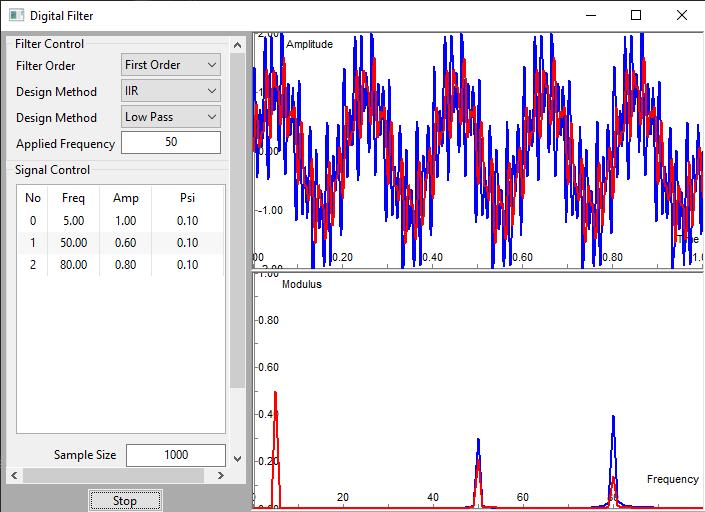
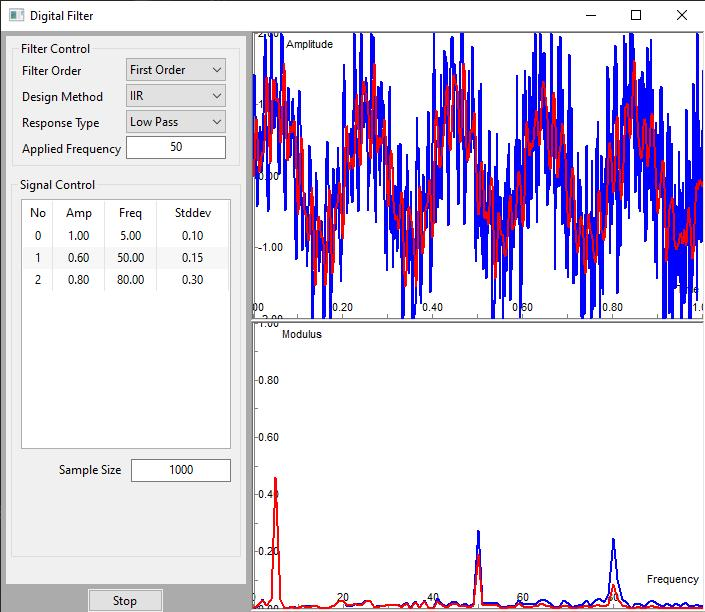
Updating stddev

diff --git a/Mainframe.cpp b/Mainframe.cpp
@@ -125,13 +125,13 @@ void DigitalFilter::MainFrame::m_dataViewListCtrl_SignalInfoOnDataViewListCtrlIt
 			if (m_dataViewListCtrl_SignalInfo->GetTextValue(m_dataViewListCtrl_SignalInfo->ItemToRow(item), event.GetColumn()).ToDouble(&newValue)) {
 				switch (event.GetColumn()) {
 				case 1:
-					signal->infos[m_dataViewListCtrl_SignalInfo->ItemToRow(item)].m_freq = newValue;
-					break;
-				case 2:
 					signal->infos[m_dataViewListCtrl_SignalInfo->ItemToRow(item)].m_amp = newValue;
 					break;
+				case 2:
+					signal->infos[m_dataViewListCtrl_SignalInfo->ItemToRow(item)].m_freq = newValue;
+					break;
 				case 3:
-					signal->infos[m_dataViewListCtrl_SignalInfo->ItemToRow(item)].m_psi = newValue;
+					signal->infos[m_dataViewListCtrl_SignalInfo->ItemToRow(item)].m_stddev = newValue;
 					break;
 				default:
 					break;
@@ -265,9 +265,9 @@ void DigitalFilter::MainFrame::UpdatingFreq() {
 
 void DigitalFilter::MainFrame::UpdatingSignalInfo() {
 	cols[0] = new wxDataViewColumn("No", new wxDataViewTextRenderer(), 0, 30);
-	cols[1] = new wxDataViewColumn("Freq", new wxDataViewTextRenderer(), 1, 52);
-	cols[2] = new wxDataViewColumn("Amp", new wxDataViewTextRenderer(), 2, 52);
-	cols[3] = new wxDataViewColumn("Psi", new wxDataViewTextRenderer(), 3, 52);
+	cols[1] = new wxDataViewColumn("Amp", new wxDataViewTextRenderer(), 1, 52);
+	cols[2] = new wxDataViewColumn("Freq", new wxDataViewTextRenderer(), 2, 52);
+	cols[3] = new wxDataViewColumn("Stddev", new wxDataViewTextRenderer(), 3, 52);
 
 	for(wxDataViewColumn* col:cols)
 		m_dataViewListCtrl_SignalInfo->AppendColumn(col);
@@ -275,9 +275,9 @@ void DigitalFilter::MainFrame::UpdatingSignalInfo() {
 	for (Calc::SignalInfo info : signal->infos) {
 		wxVector<wxVariant> rowData;
 		rowData.push_back(wxString::Format("%d", itemID++));
-		rowData.push_back(wxString::Format("%0.2lf", info.m_freq));
 		rowData.push_back(wxString::Format("%0.2lf", info.m_amp));
-		rowData.push_back(wxString::Format("%0.2lf", info.m_psi)); 
+		rowData.push_back(wxString::Format("%0.2lf", info.m_freq));
+		rowData.push_back(wxString::Format("%0.2lf", info.m_stddev));
 		m_dataViewListCtrl_SignalInfo->AppendItem(rowData);
 	}
 

diff --git a/calc/signal.cpp b/calc/signal.cpp
@@ -1,9 +1,9 @@
 #include "signal.h"
 
 DigitalFilter::Calc::Signal::Signal() {
-	infos.push_back({ 5, 1, 0.1 });
-	infos.push_back({ 50, 0.6, 0.1 });
-	infos.push_back({ 80, 0.8, 0.1 });
+	infos.push_back({ 1.0, 5, 0.10 });
+	infos.push_back({ 0.6, 50, 0.15 });
+	infos.push_back({ 0.8, 80, 0.30 });
 }
 
 DigitalFilter::Calc::Signal::Signal(double amp, double freq, double psi) {
@@ -16,15 +16,15 @@ void DigitalFilter::Calc::Signal::GenerateSignalData(int numOfSample) {
 
 	x = std::vector<double>(numOfSample, 0);
 	y = std::vector<double>(numOfSample, 0);
-	/*const double mean = 0.0;
-	const double stddev_freq = m_psi;
-	std::default_random_engine generator;
-	std::normal_distribution<double> dist(mean, stddev_freq);*/
+
+	std::default_random_engine gen;
+
 	for (int i = 0; i < numOfSample; i++) {
 		x[i] = 1.0 / (numOfSample - 1) * i;
 		y[i] = 0;
 		for (Calc::SignalInfo info : infos) {
-			y[i] += info.m_amp * sin(2 * M_PI * info.m_freq * x[i]);
+			std::normal_distribution<double> dist(info.m_freq, info.m_stddev);
+			y[i] += info.m_amp * sin(2 * M_PI * dist(gen) * x[i]);
 		}
 	}
 }

diff --git a/calc/signal.h b/calc/signal.h
@@ -7,9 +7,9 @@
 namespace DigitalFilter {
 	namespace Calc {
 		struct SignalInfo {
-			double m_freq;
 			double m_amp;
-			double m_psi;
+			double m_freq;
+			double m_stddev;
 		};
 
 		class Signal {
